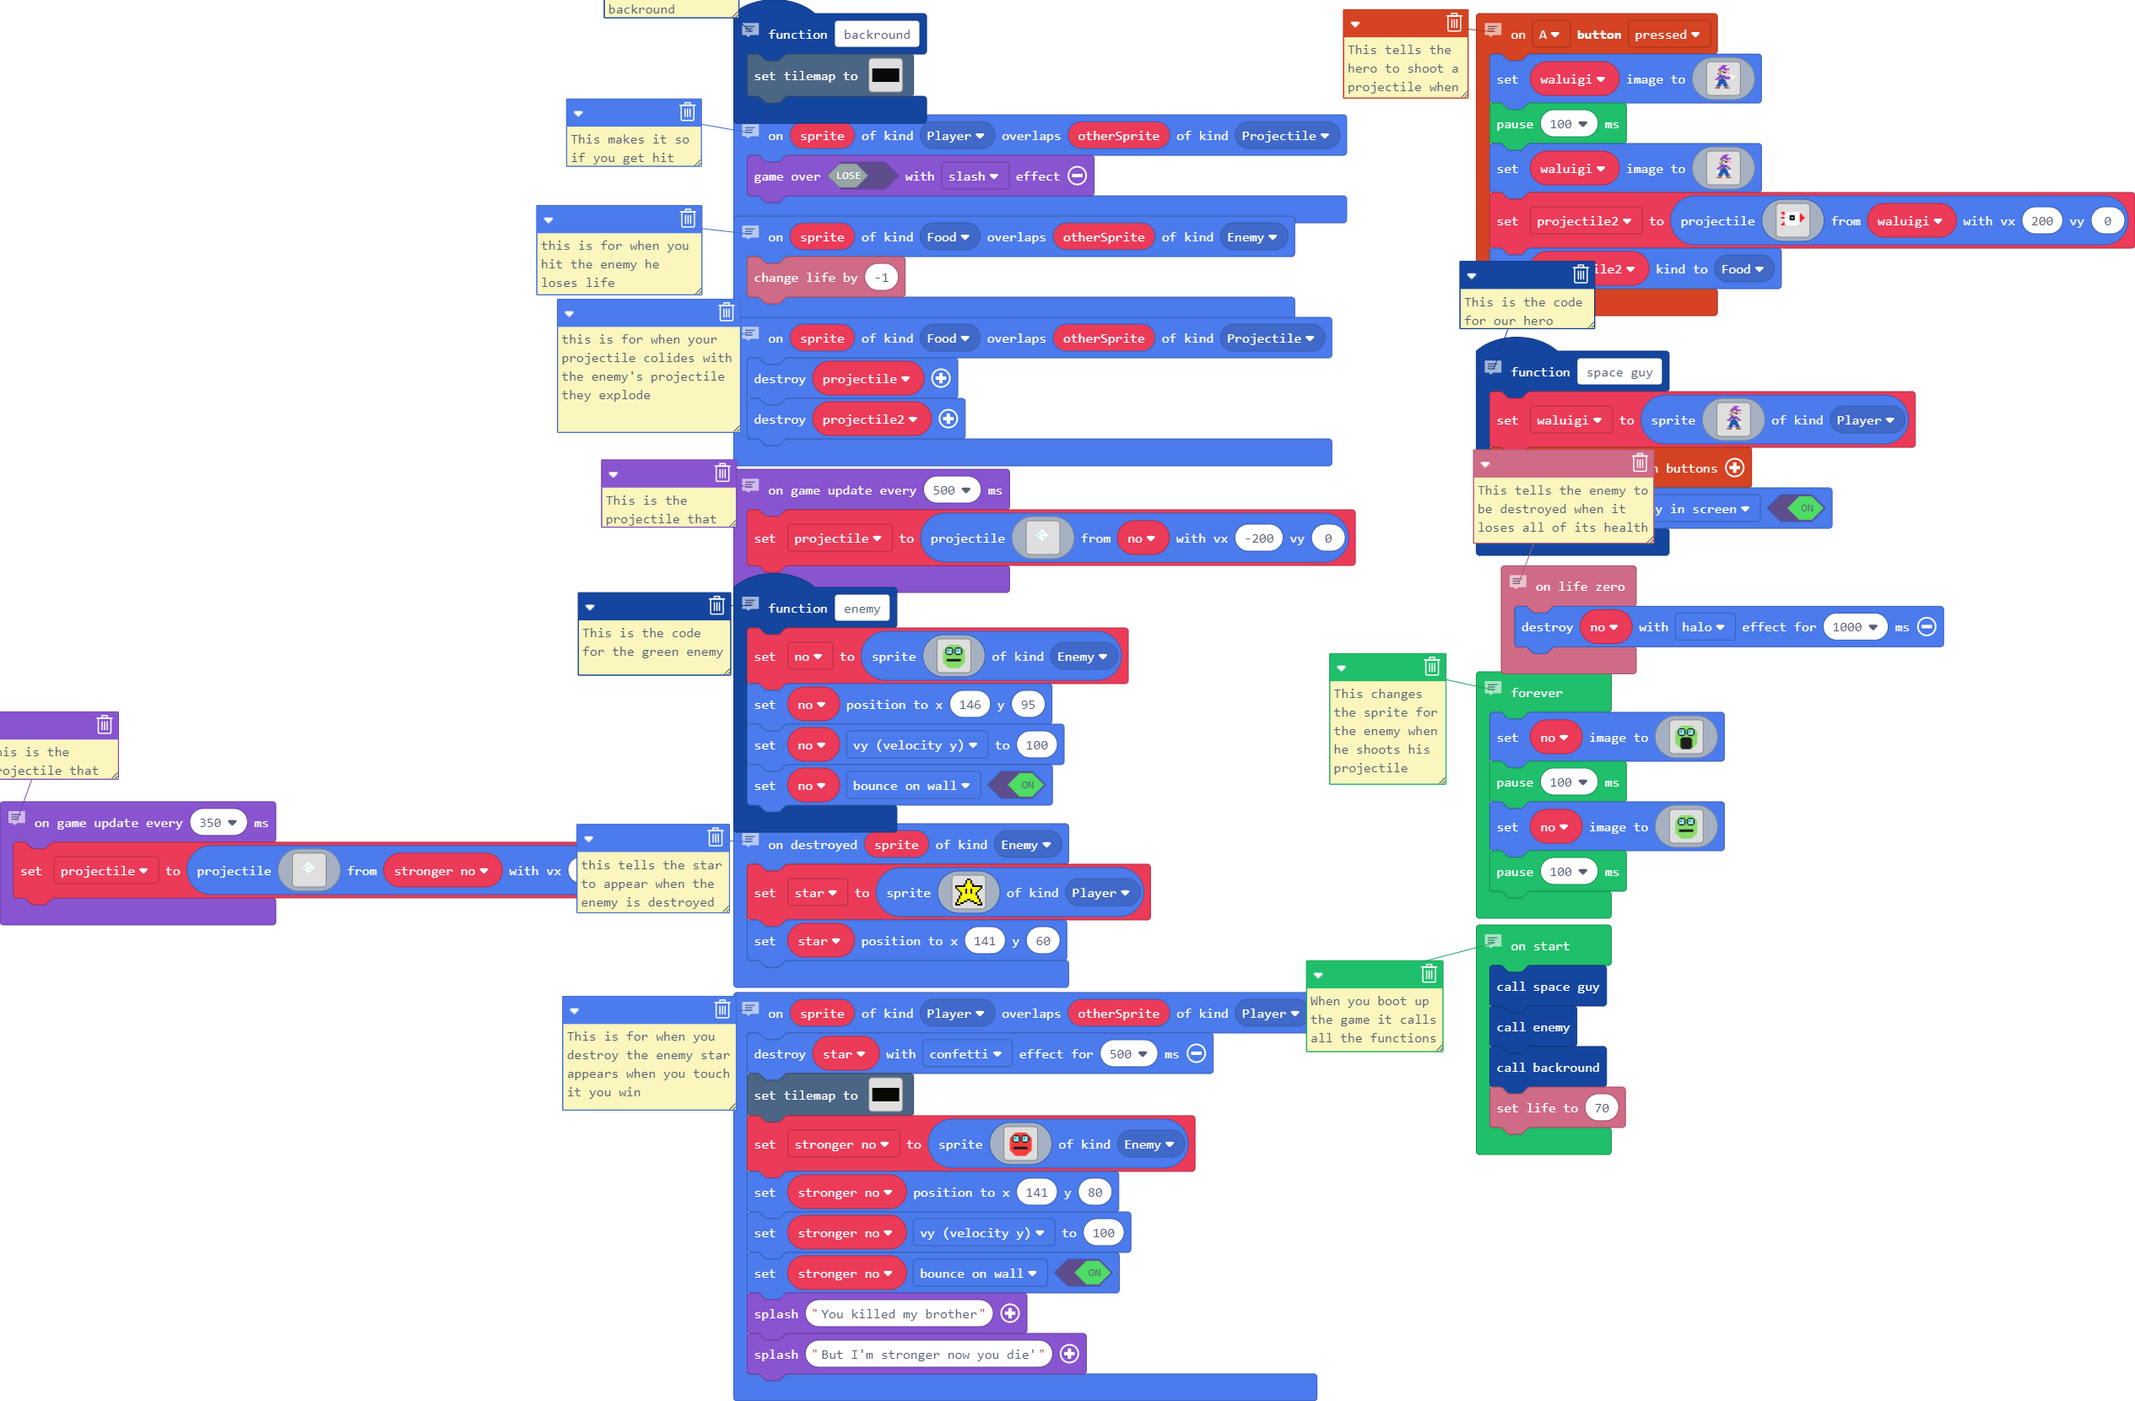
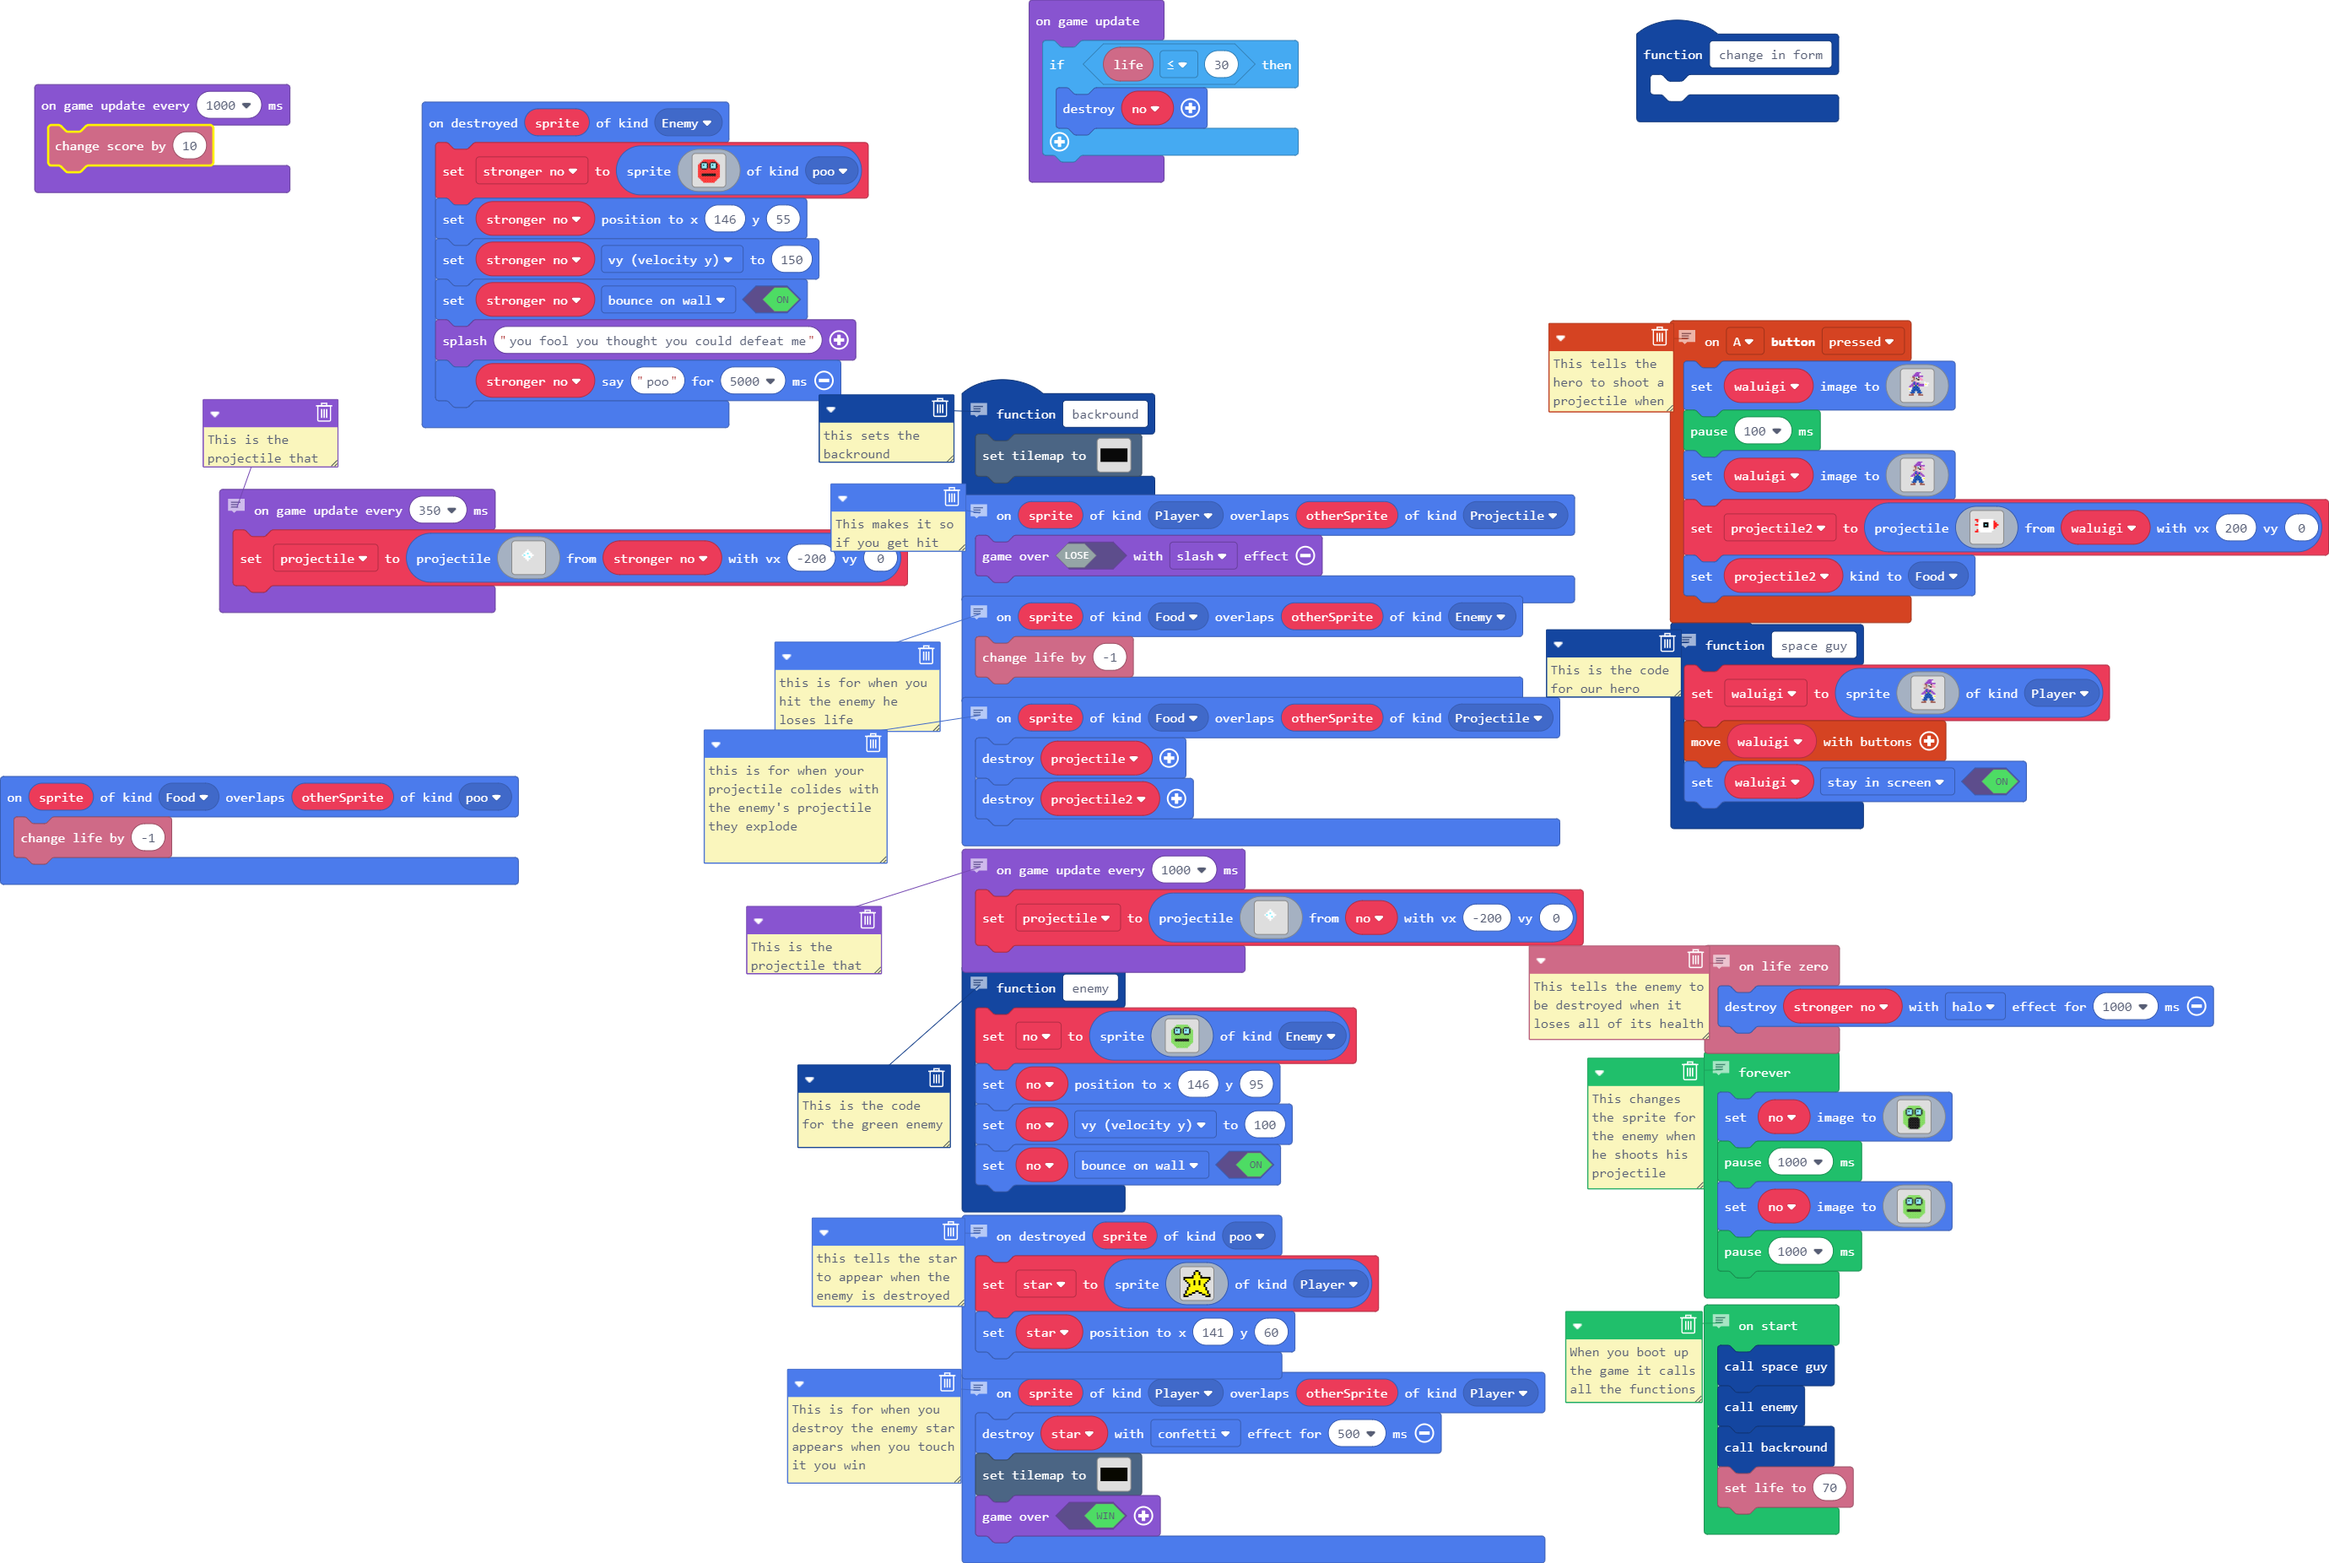
Update main.blocks, main.ts

diff --git a/main.ts b/main.ts
@@ -1,3 +1,6 @@
+namespace SpriteKind {
+    export const poo = SpriteKind.create()
+}
 namespace myTiles {
     //% blockIdentity=images._tile
     export const tile0 = img`
@@ -57,6 +60,9 @@ f f 5 f f f f f f f f f f f f f
 f f f f f f f f f f f f f f f f 
 `
 }
+function change_in_form () {
+	
+}
 // This is the code for our hero
 function space_guy () {
     waluigi = sprites.create(img`
@@ -87,6 +93,32 @@ function space_guy () {
     controller.moveSprite(waluigi)
     waluigi.setFlag(SpriteFlag.StayInScreen, true)
 }
+// this tells the star to appear when the enemy is
+// destroyed
+sprites.onDestroyed(SpriteKind.poo, function (sprite) {
+    star = sprites.create(img`
+. . . . . . . f f . . . . . . . 
+. . . . . . f 5 5 f . . . . . . 
+. . . . . . f 5 5 f . . . . . . 
+. . . . . f 5 5 5 5 f . . . . . 
+f f f f f f 5 5 5 5 f f f f f f 
+f 5 5 5 5 5 5 5 5 5 5 5 5 5 5 f 
+. f 5 5 5 5 f 5 5 f 5 5 5 5 f . 
+. . f 5 5 5 f 5 5 f 5 5 5 f . . 
+. . . f 5 5 f 5 5 f 5 5 f . . . 
+. . . f 5 5 5 5 5 5 5 5 f . . . 
+. . f 5 5 5 5 5 5 5 5 5 5 f . . 
+. . f 5 5 5 5 5 5 5 5 5 5 f . . 
+. f 5 5 5 5 5 f f 5 5 5 5 5 f . 
+. f 5 5 5 f f . . f f 5 5 5 f . 
+f 5 5 f f . . . . . . f f 5 5 f 
+f f f . . . . . . . . . . f f f 
+`, SpriteKind.Player)
+    star.setPosition(141, 60)
+})
+sprites.onOverlap(SpriteKind.Food, SpriteKind.poo, function (sprite, otherSprite) {
+    info.changeLifeBy(-1)
+})
 // this sets the backround
 function backround () {
     tiles.setTilemap(tiles.createTilemap(
@@ -222,48 +254,7 @@ function enemy () {
     no.vy = 100
     no.setFlag(SpriteFlag.BounceOnWall, true)
 }
-// this tells the star to appear when the enemy is
-// destroyed
 sprites.onDestroyed(SpriteKind.Enemy, function (sprite) {
-    star = sprites.create(img`
-. . . . . . . f f . . . . . . . 
-. . . . . . f 5 5 f . . . . . . 
-. . . . . . f 5 5 f . . . . . . 
-. . . . . f 5 5 5 5 f . . . . . 
-f f f f f f 5 5 5 5 f f f f f f 
-f 5 5 5 5 5 5 5 5 5 5 5 5 5 5 f 
-. f 5 5 5 5 f 5 5 f 5 5 5 5 f . 
-. . f 5 5 5 f 5 5 f 5 5 5 f . . 
-. . . f 5 5 f 5 5 f 5 5 f . . . 
-. . . f 5 5 5 5 5 5 5 5 f . . . 
-. . f 5 5 5 5 5 5 5 5 5 5 f . . 
-. . f 5 5 5 5 5 5 5 5 5 5 f . . 
-. f 5 5 5 5 5 f f 5 5 5 5 5 f . 
-. f 5 5 5 f f . . f f 5 5 5 f . 
-f 5 5 f f . . . . . . f f 5 5 f 
-f f f . . . . . . . . . . f f f 
-`, SpriteKind.Player)
-    star.setPosition(141, 60)
-})
-// This is for when you destroy the enemy star appears
-// when you touch it you win
-sprites.onOverlap(SpriteKind.Player, SpriteKind.Player, function (sprite, otherSprite) {
-    star.destroy(effects.confetti, 500)
-    tiles.setTilemap(tiles.createTilemap(
-            hex`100008000202020202020202020202020202020202020202020202020202020202020202020202020202020202020202020202020202020202020202020202020202020202020202020202020202020202020202020202020202020202020202020202020202020202020202020202020202020202020202020202020202020202020202`,
-            img`
-. . . . . . . . . . . . . . . . 
-. . . . . . . . . . . . . . . . 
-. . . . . . . . . . . . . . . . 
-. . . . . . . . . . . . . . . . 
-. . . . . . . . . . . . . . . . 
-. . . . . . . . . . . . . . . . 
-. . . . . . . . . . . . . . . . 
-. . . . . . . . . . . . . . . . 
-`,
-            [myTiles.tile0,myTiles.tile1,myTiles.tile2],
-            TileScale.Sixteen
-        ))
     stronger_no = sprites.create(img`
 . . . . . . . . . . . . . . . . . . . . . 
 . . . . . . . . . . . . . . . . . . . . . 
@@ -286,48 +277,53 @@ sprites.onOverlap(SpriteKind.Player, SpriteKind.Player, function (sprite, otherS
 . . . . . 2 2 2 2 2 2 2 2 2 2 2 . . . . . 
 . . . . . . 2 2 2 2 2 2 2 2 2 . . . . . . 
 . . . . . . . . . . . . . . . . . . . . . 
-`, SpriteKind.Enemy)
-    stronger_no.setPosition(141, 80)
-    stronger_no.vy = 100
+`, SpriteKind.poo)
+    stronger_no.setPosition(146, 55)
+    stronger_no.vy = 150
     stronger_no.setFlag(SpriteFlag.BounceOnWall, true)
-    game.splash("You killed my brother")
-    game.splash("But I'm stronger now you die'")
+    game.splash("you fool you thought you could defeat me")
+    stronger_no.say("poo", 5000)
+})
+// This is for when you destroy the enemy star appears
+// when you touch it you win
+sprites.onOverlap(SpriteKind.Player, SpriteKind.Player, function (sprite, otherSprite) {
+    star.destroy(effects.confetti, 500)
+    tiles.setTilemap(tiles.createTilemap(
+            hex`100008000202020202020202020202020202020202020202020202020202020202020202020202020202020202020202020202020202020202020202020202020202020202020202020202020202020202020202020202020202020202020202020202020202020202020202020202020202020202020202020202020202020202020202`,
+            img`
+. . . . . . . . . . . . . . . . 
+. . . . . . . . . . . . . . . . 
+. . . . . . . . . . . . . . . . 
+. . . . . . . . . . . . . . . . 
+. . . . . . . . . . . . . . . . 
+. . . . . . . . . . . . . . . . 
+. . . . . . . . . . . . . . . . 
+. . . . . . . . . . . . . . . . 
+`,
+            [myTiles.tile0,myTiles.tile1,myTiles.tile2],
+            TileScale.Sixteen
+        ))
+    game.over(true)
 })
 // This tells the enemy to be destroyed when it loses
 // all of its health
 info.onLifeZero(function () {
-    no.destroy(effects.halo, 1000)
+    stronger_no.destroy(effects.halo, 1000)
 })
 let stronger_no: Sprite = null
-let star: Sprite = null
 let no: Sprite = null
 let projectile2: Sprite = null
 let projectile: Sprite = null
+let star: Sprite = null
 let waluigi: Sprite = null
 space_guy()
 enemy()
 backround()
 info.setLife(70)
-// This is the projectile that comes from the enemy
-game.onUpdateInterval(500, function () {
-    projectile = sprites.createProjectileFromSprite(img`
-. . . . . . . . . . . . . . . . 
-. . . . . . . . . . . . . . . . 
-. . . . . . . . . . . . . . . . 
-. . . . . . . 1 . . . . . . . . 
-. . . . . . 1 1 1 . . . . . . . 
-. . . . . 1 1 9 1 1 . . . . . . 
-. . . . 1 9 1 1 1 1 1 . . . . . 
-. . . . . 1 1 1 9 1 . . . . . . 
-. . . . . . 1 1 1 . . . . . . . 
-. . . . . . . 1 . . . . . . . . 
-. . . . . . . . . . . . . . . . 
-. . . . . . . . . . . . . . . . 
-. . . . . . . . . . . . . . . . 
-. . . . . . . . . . . . . . . . 
-. . . . . . . . . . . . . . . . 
-. . . . . . . . . . . . . . . . 
-`, no, -200, 0)
+game.onUpdate(function () {
+    if (info.life() <= 30) {
+        no.destroy()
+    }
 })
 // This is the projectile that comes from the enemy
 game.onUpdateInterval(350, function () {
@@ -376,7 +372,7 @@ forever(function () {
 . . . . . . 7 f f f f f f f 7 . . . . . . 
 . . . . . . . . . . . . . . . . . . . . . 
 `)
-    pause(100)
+    pause(1000)
     no.setImage(img`
 . . . . . . . . . . . . . . . . . . . . . 
 . . . . . . . . . . . . . . . . . . . . . 
@@ -400,5 +396,29 @@ forever(function () {
 . . . . . . 7 7 7 7 7 7 7 7 7 . . . . . . 
 . . . . . . . . . . . . . . . . . . . . . 
 `)
-    pause(100)
+    pause(1000)
+})
+game.onUpdateInterval(1000, function () {
+    info.changeScoreBy(10)
+})
+// This is the projectile that comes from the enemy
+game.onUpdateInterval(1000, function () {
+    projectile = sprites.createProjectileFromSprite(img`
+. . . . . . . . . . . . . . . . 
+. . . . . . . . . . . . . . . . 
+. . . . . . . . . . . . . . . . 
+. . . . . . . 1 . . . . . . . . 
+. . . . . . 1 1 1 . . . . . . . 
+. . . . . 1 1 9 1 1 . . . . . . 
+. . . . 1 9 1 1 1 1 1 . . . . . 
+. . . . . 1 1 1 9 1 . . . . . . 
+. . . . . . 1 1 1 . . . . . . . 
+. . . . . . . 1 . . . . . . . . 
+. . . . . . . . . . . . . . . . 
+. . . . . . . . . . . . . . . . 
+. . . . . . . . . . . . . . . . 
+. . . . . . . . . . . . . . . . 
+. . . . . . . . . . . . . . . . 
+. . . . . . . . . . . . . . . . 
+`, no, -200, 0)
 })
